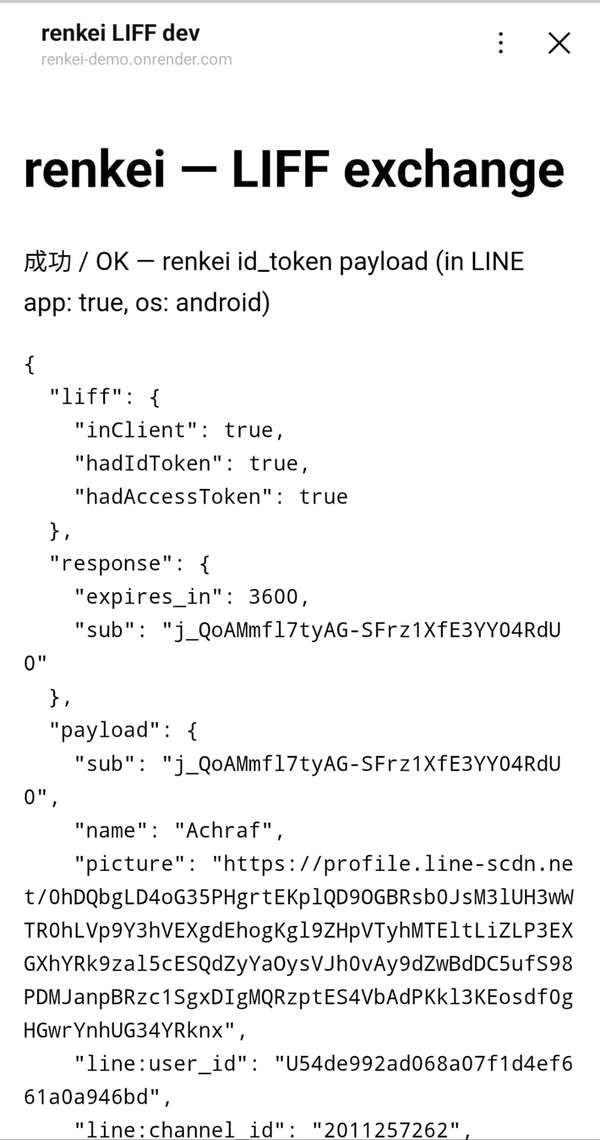
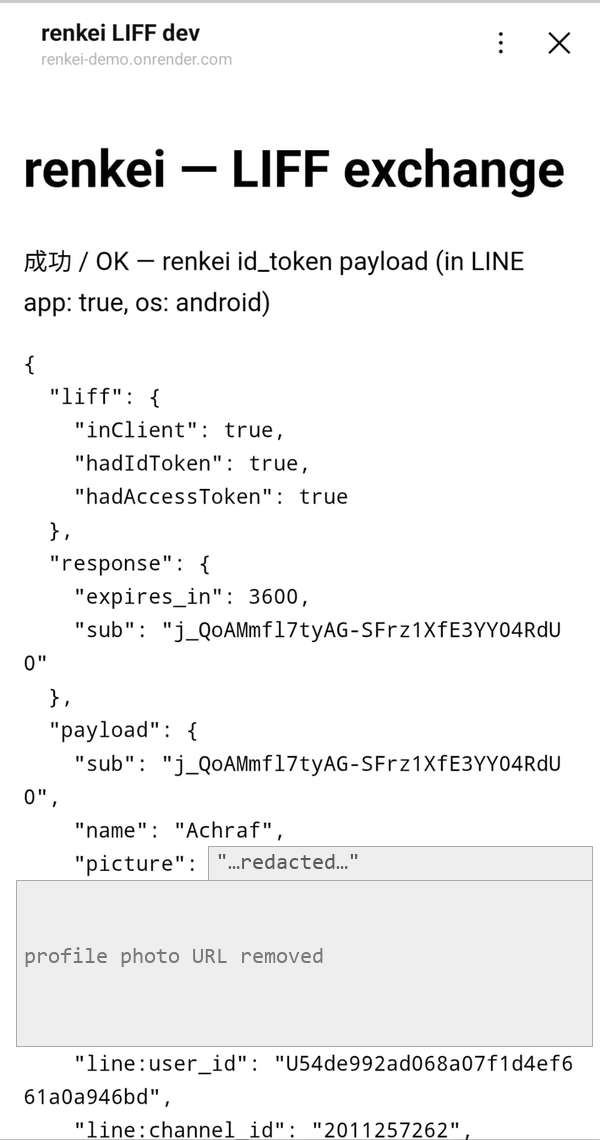
docs: re-record the README GIF from a stubbed-LINE demo server, redact the LIFF shot (#79)
The /dev GIF was recorded against the live demo with a real login, so it carried Achraf's sub and — the part that is not scoped to renkei's LINE provider — the publicly fetchable URL of his LINE profile photo, in a public repo. It was also stale, still showing the pre-#19 page. It is now re-recorded from a new `pnpm demo:server` (packages/server/scripts/demo-server.ts): the real server and the real /dev page, but LINE_ENDPOINTS.authorize pointed at a local stub and every LINE API call answered by an injected fetch, so the whole flow runs against a synthetic user and nothing recorded from it is anyone's account. Two frames, 368 KB, 900 px, and it shows the guideline login button. The stub approves immediately rather than drawing a fake consent screen, which is also what the original showed — Chrome's LINE SSO auto-approved, so no consent screen appeared — and inventing one would misrepresent LINE's own UI. docs/images/liff-phone.png is a phone screenshot that cannot be re-recorded, so its profile-photo URL is covered with a visible redaction instead; the LINE user ID stays, because LINE issues one per provider and it is meaningful only to whoever operates that provider's channels. Both READMEs say where the recording comes from and what is redacted, and CLAUDE.md lists demo:server as the way to take screenshots so the next recording cannot repeat the mistake.

Claude-Session: https://claude.ai/code/session_017n6eb4xH6A6nqtrkrD6UnW

Changed region(s): [[0.03, 0.7368, 0.96, 0.9211]]

diff --git a/packages/server/scripts/demo-server.ts b/packages/server/scripts/demo-server.ts
@@ -1,0 +1,121 @@
+/**
+ * A renkei for screenshots and the README GIF: the real server, the real
+ * `/dev` page, the real login flow — against a **fake LINE** and a synthetic
+ * user, so nothing recorded from it is anyone's account.
+ *
+ *   pnpm demo:server            → http://localhost:4321/dev
+ *
+ * The original `docs/images/dev-flow.gif` was recorded against the live demo
+ * with a real login, which put a real LINE user ID, `sub` and profile-picture
+ * URL into a file in a public repo. Recording from here instead means the next
+ * person regenerating it cannot make that mistake.
+ *
+ * It is a dev tool, not a product surface: it is not in any package, not
+ * published, and it patches `LINE_ENDPOINTS` in memory to keep the browser
+ * away from `access.line.me`.
+ */
+import { serve } from '@hono/node-server';
+import { Hono } from 'hono';
+import { SignJWT } from 'jose';
+import { createMemoryStorage, LINE_ENDPOINTS } from 'renkei-core';
+import { devClientsFor } from '../src/dev-rp.js';
+import { createRenkei } from '../src/index.js';
+
+const PORT = Number(process.env.PORT ?? 4321);
+const ISSUER = `http://localhost:${PORT}`;
+
+/** Obvious placeholders. A LINE user ID is `U` + 32 hex; keep the shape, lose the person. */
+const DEMO_USER = {
+  userId: 'U1234567890abcdef1234567890abcdef',
+  name: 'デモユーザー / Demo User',
+  picture: 'https://profile.line-scdn.net/demo-placeholder',
+  friend: true,
+};
+
+const CHANNEL = {
+  channelId: '2011257262',
+  channelSecret: 'demo-channel-secret-0123456789',
+  region: 'jp',
+};
+
+// The browser must never be sent to the real LINE. Everything else the server
+// calls goes through the injected `fetch` below, which never reaches the network.
+LINE_ENDPOINTS.authorize = `${ISSUER}/fake-line/authorize`;
+
+/** The nonce renkei asked for, echoed back in the fake id_token so verification passes. */
+let nonce = '';
+
+const lineFetch = (async (input: RequestInfo | URL) => {
+  const url = String(input);
+  if (url === LINE_ENDPOINTS.token) {
+    const now = Math.floor(Date.now() / 1000);
+    const idToken = await new SignJWT({ name: DEMO_USER.name, picture: DEMO_USER.picture, nonce })
+      .setProtectedHeader({ alg: 'HS256' })
+      .setIssuer(LINE_ENDPOINTS.issuer)
+      .setAudience(CHANNEL.channelId)
+      .setSubject(DEMO_USER.userId)
+      .setIssuedAt(now)
+      .setExpirationTime(now + 3600)
+      .sign(new TextEncoder().encode(CHANNEL.channelSecret));
+    return json({
+      access_token: 'demo-access-token',
+      token_type: 'Bearer',
+      expires_in: 2592000,
+      scope: 'openid profile',
+      id_token: idToken,
+    });
+  }
+  if (url === LINE_ENDPOINTS.profile) {
+    return json({
+      userId: DEMO_USER.userId,
+      displayName: DEMO_USER.name,
+      pictureUrl: DEMO_USER.picture,
+    });
+  }
+  if (url.startsWith(LINE_ENDPOINTS.friendship)) return json({ friendFlag: DEMO_USER.friend });
+  throw new Error(`demo-server: unexpected LINE call ${url}`);
+}) as typeof fetch;
+
+function json(body: unknown, status = 200) {
+  return new Response(JSON.stringify(body), {
+    status,
+    headers: { 'content-type': 'application/json' },
+  });
+}
+
+const renkei = await createRenkei({
+  storage: createMemoryStorage(),
+  fetch: lineFetch,
+  config: {
+    issuer: ISSUER,
+    dev: true,
+    channels: [CHANNEL],
+    // `dev: true` only mounts the page; its OIDC clients still have to be registered.
+    clients: devClientsFor(ISSUER),
+    cookieKeys: ['demo-cookie-key-0123456789abcdef'],
+  },
+});
+
+const app = new Hono();
+
+// Stands in for LINE's authorization screen. It approves immediately, which is
+// also what the original recording showed: Chrome's LINE SSO auto-approved, so
+// no consent screen appeared. Inventing a fake consent UI here would misrepresent
+// what LINE's own screen looks like.
+app.get('/fake-line/authorize', (c) => {
+  const url = new URL(c.req.url);
+  nonce = url.searchParams.get('nonce') ?? '';
+  const redirectUri = url.searchParams.get('redirect_uri');
+  const state = url.searchParams.get('state');
+  if (!redirectUri || !state) return c.text('demo-server: missing redirect_uri/state', 400);
+  const back = new URL(redirectUri);
+  back.searchParams.set('code', 'demo-code');
+  back.searchParams.set('state', state);
+  return c.redirect(back.toString(), 302);
+});
+
+app.route('/', renkei.app);
+
+serve({ fetch: app.fetch, port: PORT }, () => {
+  console.log(`renkei demo (fake LINE, synthetic user) → ${ISSUER}/dev`);
+});

diff --git a/docs/NEXT.md b/docs/NEXT.md
@@ -391,10 +391,13 @@ at 0.2.1 (the group is `linked`, not `fixed`) — `pnpm -r publish` skips them.
 
 - [x] `.github/social-preview.png` uploaded (2026-08-30, Claude via Chrome;
       persists after reload under Settings → General → Social preview).
-- [x] README GIF of the `/dev` flow: `docs/images/dev-flow.gif` (4 frames,
-      320 KB, recorded on renkei-demo — LINE's consent screen is skipped
-      because Chrome's LINE SSO auto-approved; it shows Achraf's `line:user_id`,
-      which NEXT.md already lists). Linked from both READMEs.
+- [x] README GIF of the `/dev` flow: `docs/images/dev-flow.gif`. **Re-recorded 2026-09-05**
+      (2 frames, 368 KB, 900 px) from `pnpm demo:server` — the real server and the real
+      `/dev` page against a stubbed LINE and a synthetic user, so it carries no real account
+      data and shows the guideline login button. The first cut was recorded on renkei-demo
+      with a real login, which put Achraf's `sub` and his **publicly fetchable
+      profile-photo URL** into a public repo. Regenerate it from the demo server, never
+      from a real login. Linked from both READMEs.
 - [x] In-app **LIFF phone shot** — `docs/images/liff-phone.png`, taken by Achraf on 2026-08-30 and
       linked from both READMEs (rescued from the forgotten PR #52 on 2026-09-04, PR #74).
 - [x] **Flip the repo public** — already PUBLIC as of 2026-08-30 (`gh repo view`).

diff --git a/README.en.md b/README.en.md
@@ -33,9 +33,11 @@ LINE Platform ──────▶  renkei (self-hosted)  ──────▶
 
 **<https://renkei-demo.onrender.com/dev>** — "LINEでログイン" → friend-add screen → an id_token with `line:*` claims, right there. You log in with your own LINE account (the only side effect is one row in the demo DB mapping to your LINE user ID).
 
-![The /dev login flow: click login → LINE → an id_token with line:* claims](docs/images/dev-flow.gif)
+![The /dev login flow: click the LINE login button → an id_token with line:* claims](docs/images/dev-flow.gif)
 
-The same id_token from inside the LINE app (LIFF) — open `https://liff.line.me/2011257262-OKRFVulZ` in LINE on a phone to see the `/liff/exchange` result:
+*Recorded against a local `pnpm demo:server` — a real renkei, a stubbed LINE and a synthetic user, so the claims above are nobody's account.*
+
+The same id_token from inside the LINE app (LIFF) — open `https://liff.line.me/2011257262-OKRFVulZ` in LINE on a phone to see the `/liff/exchange` result (the profile-photo URL is redacted; everything else is a real payload):
 
 <img src="./docs/images/liff-phone.png" alt="The LIFF exchange result inside the LINE app: inClient true and a renkei id_token with line:* claims" width="320">
 

diff --git a/CLAUDE.md b/CLAUDE.md
@@ -42,6 +42,7 @@ a done item.
 |---|---|
 | `pnpm dev:server` | renkei on :3000 with the `/dev` test relying party |
 | `pnpm --filter renkei-server dev:harness` | raw LINE Login harness (no OIDC layer) |
+| `pnpm demo:server` | renkei on :4321 with a **stubbed LINE and a synthetic user** — use this for screenshots and the README GIF, never a real login |
 | `pnpm test` / `pnpm lint` / `pnpm typecheck` / `pnpm build` | the checks |
 | `pnpm docs:build` / `pnpm docs:dev` | VitePress site (`docs/.vitepress`) |
 | `docker compose up` | renkei + Postgres from the Dockerfile |
